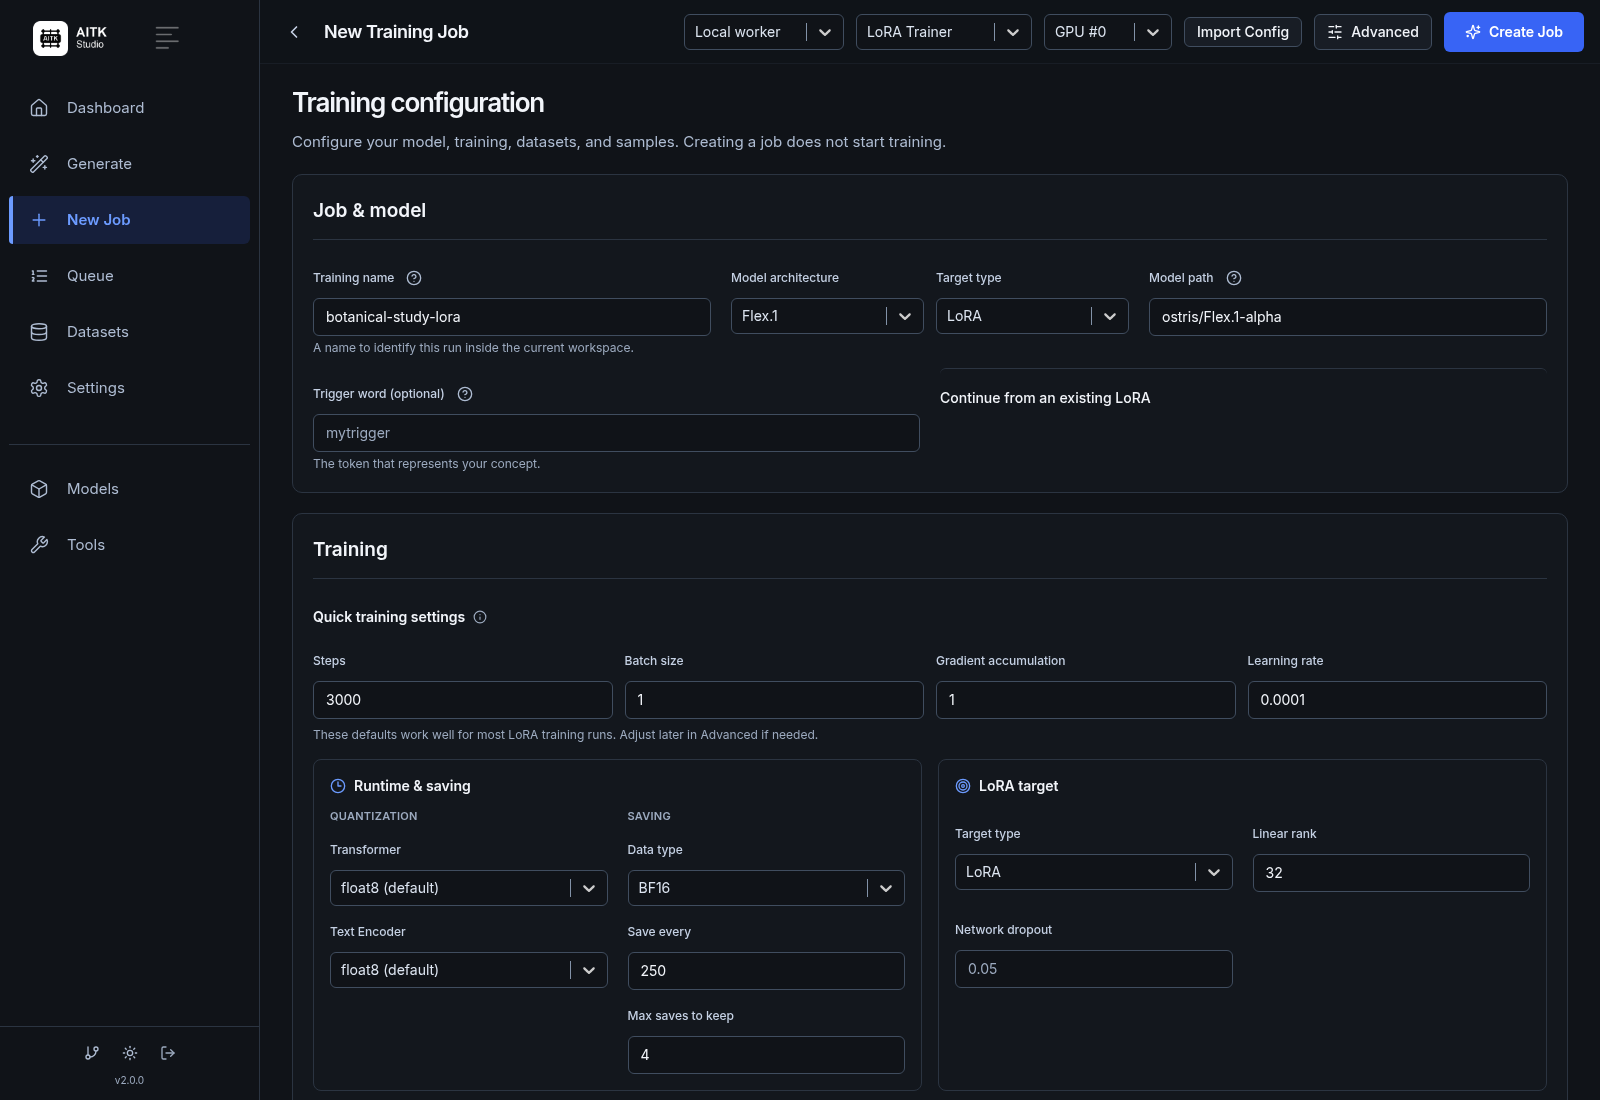
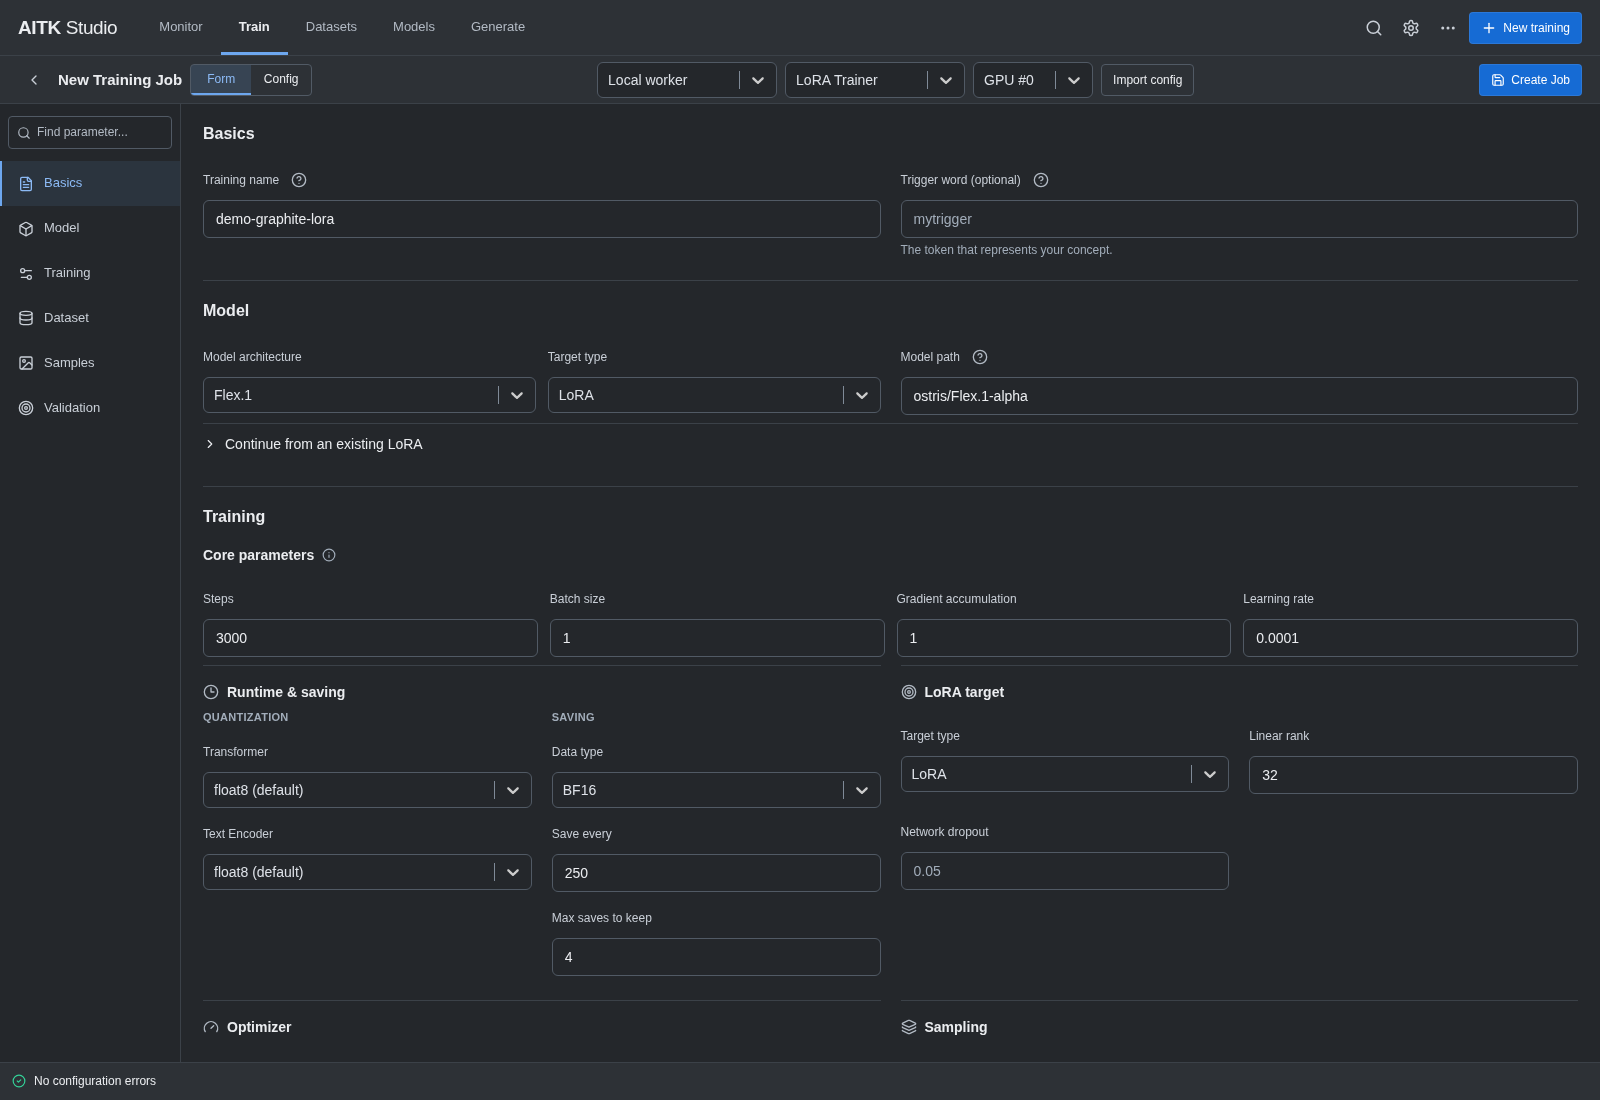
Refresh README screenshots for the native Studio redesign

diff --git a/README.md b/README.md
@@ -21,11 +21,11 @@
 
 | Set up a training run | Generate with your models |
 | :---: | :---: |
-| [![Guided training job setup](assets/readme-ui-new-job.png)](assets/readme-ui-new-job.png) | [![Image generation with a base model or LoRA](assets/readme-ui-generate.png)](assets/readme-ui-generate.png) |
+| [![Training form with parameter navigation](assets/readme-ui-new-job.png)](assets/readme-ui-new-job.png) | [![Image generation with a base model or LoRA](assets/readme-ui-generate.png)](assets/readme-ui-generate.png) |
 
 | Edit in Caption Studio | Compose with Ideogram Regions |
 | :---: | :---: |
-| [![Caption Studio with a demo image and editable caption](assets/readme-ui-caption-studio.png)](assets/readme-ui-caption-studio.png) | [![Ideogram region composition and selected text element](assets/readme-ui-workflow-builder.png)](assets/readme-ui-workflow-builder.png) |
+| [![Caption Studio with a demo image and editable caption](assets/readme-ui-caption-studio.png)](assets/readme-ui-caption-studio.png) | [![Ideogram editing workspace with region composition and a selected text element](assets/readme-ui-workflow-builder.png)](assets/readme-ui-workflow-builder.png) |
 
 Screenshots show the running UI with demo data. GPU availability is simulated for setup; no training or generation was run, and external ComfyUI is disconnected.
 
